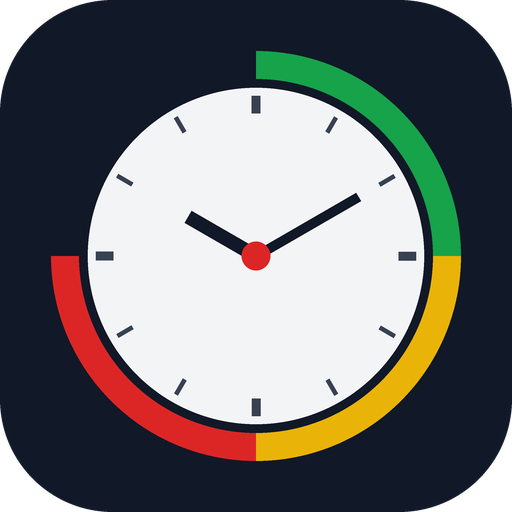
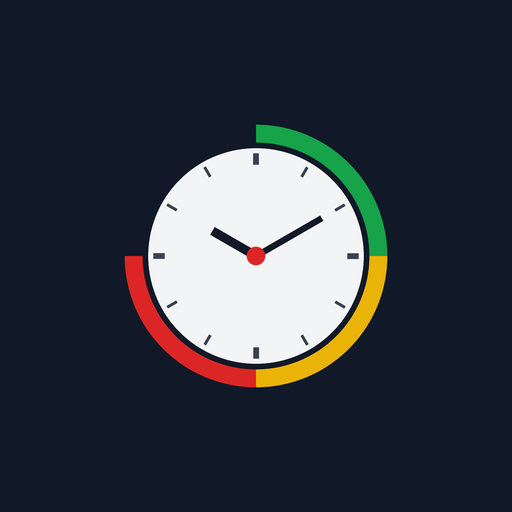
Kontrast je Phase, Stepper, Zoom frei, offline
- Kontrast in jeder Phase (FA-15, Befunde 1/2):
  - Gelb: weiße Zeit 1,92:1 → dunkle Schrift 9,25:1; dunkle Knöpfe (Text 14,3:1,
    Rand 9,25:1).
  - Grün: Farbe #16a34a → #15803d. Zeit und Legende 3,30 → 5,02:1. Knöpfe mit
    abgedunkelter Fläche und hellem Rand: „Pause“ 2,34 → 7,68:1, „Reset“ 2,72 →
    7,68:1, Zahnrad 2,72 → 7,68:1, Rand 3,81:1.
  - Rot: Zeit und Legende 4,83:1 (Legende ohne Abdunklung), Knöpfe 7,53:1,
    Rand 3,52:1.
  - Grundzustand: Rand 5,28:1.
  - Einstellungen bleiben hell auf dunkel, auch in der Gelbphase geöffnet.
- Zoom freigegeben: maximum-scale und user-scalable=no entfernt.
  touch-action: manipulation an Knöpfen und Zeitfläche, damit Doppeltipp nicht
  zoomt (Befund 3).
- Einstellungen: „Speichern“ 331×203 → 331×56 px (flex:1 blähte ihn auf, Befund 5).
- Je Minuten-/Sekundenfeld − und + (44×44 px), Grenzen 0–59 auch bei
  Tastatureingabe (75 → 59), Tastatur bleibt möglich (Befund 6).
- Service Worker nach Vorlage (sw.js, Cache "redezeit-timer::v1") (Q-2, Befund 4).
- mobile-web-app-capable im Kopf.
- icon-maskable-512.png deckend: Uhr auf 64 % auf #111827, Motiv unverändert,
  0 Pixel außerhalb der Schutzzone (Befund 8).
- README: Bedienung, Dateien, Installation, Offline; begründet die bewussten
  Abweichungen „nur dunkel“ und „orientation any“ (Befund 7).

Geprüft:
- 375×812: Grundzustand, Grün, Gelb, Rot (Zeiten 0:01/0:02/0:03 über Stepper und
  Felder gesetzt): Prüfskript ohne Befund, Werte siehe oben.
[…]

diff --git a/index.html b/index.html
@@ -2,8 +2,9 @@
 <html lang="de">
 <head>
 <meta charset="UTF-8">
-<meta name="viewport" content="width=device-width, initial-scale=1.0, maximum-scale=1.0, user-scalable=no, viewport-fit=cover">
+<meta name="viewport" content="width=device-width, initial-scale=1, viewport-fit=cover">
 <meta name="theme-color" content="#111827">
+<meta name="mobile-web-app-capable" content="yes">
 <meta name="apple-mobile-web-app-capable" content="yes">
 <meta name="apple-mobile-web-app-status-bar-style" content="black-translucent">
 <meta name="apple-mobile-web-app-title" content="Redezeit">
@@ -15,7 +16,7 @@
 <style>
   * { box-sizing: border-box; -webkit-tap-highlight-color: transparent; }
   :root {
-    --green: #16a34a;
+    --green: #15803d;   /* 02.10.2026: #16a34a gab weisser Schrift nur 3,30:1 */
     --yellow: #eab308;
     --red: #dc2626;
     --bg: #111827;
@@ -63,7 +64,6 @@
     gap: 14px;
     font-size: 15px;
     font-weight: 600;
-    opacity: .85;
   }
   #targets span { display: inline-flex; align-items: center; gap: 6px; }
   .dot { width: 12px; height: 12px; border-radius: 50%; box-shadow: 0 0 0 2px rgba(255,255,255,.4); }
@@ -83,7 +83,7 @@
     font-weight: 700;
     color: #fff;
     background: rgba(255,255,255,.16);
-    border: 1.5px solid rgba(255,255,255,.35);
+    border: 1.5px solid rgba(255,255,255,.5);
     border-radius: 16px;
     padding: 18px 0;
     flex: 1;
@@ -91,6 +91,7 @@
     cursor: pointer;
     backdrop-filter: blur(4px);
     transition: transform .05s ease, background .2s ease;
+    touch-action: manipulation;
   }
   button:active { transform: scale(.96); }
   #startBtn { background: rgba(255,255,255,.28); }
@@ -133,6 +134,29 @@
   #closeSettings {
     margin-top: auto; background: rgba(255,255,255,.28);
     border-color: rgba(255,255,255,.4); max-width: none;
+    flex: 0 0 auto; padding: 14px 0;   /* 02.10.2026: flex:1 blaehte den Knopf auf 203 px Hoehe auf */
+  }
+
+  /* ---- 02.10.2026: Kontrast in jeder Phase (FA-15) ----
+     Gruen/Rot: Knopfflaeche abgedunkelt, Rand hell -> weisse Schrift >= 4,5:1, Rand >= 3:1.
+     Gelb: weisse Schrift gab nur 1,92:1 -> dunkle Schrift, dunkle Knoepfe. */
+  #app.g button, #app.r button { background: rgba(0,0,0,.25); border-color: rgba(255,255,255,.8); }
+  #app.y { color: #111827; }
+  #app.y #clock { text-shadow: none; }
+  #app.y button { color: #fff; background: rgba(17,24,39,.88); border-color: #111827; }
+  #app.y .dot { box-shadow: 0 0 0 2px rgba(17,24,39,.5); }
+  #settings { color: #fff; }   /* Einstellungen bleiben hell auf dunkel, auch wenn sie in der Gelbphase geoeffnet werden */
+  #timerView { touch-action: manipulation; }   /* Tippen aufs Bild = Start/Pause, kein Doppeltipp-Zoom */
+
+  /* ---- 02.10.2026: Stepper je Minuten-/Sekundenfeld (MO-06) ---- */
+  .time-inputs { gap: 4px; }
+  .time-inputs input { width: 56px; -moz-appearance: textfield; }
+  .time-inputs input::-webkit-outer-spin-button,
+  .time-inputs input::-webkit-inner-spin-button { -webkit-appearance: none; margin: 0; }
+  .time-inputs .step {
+    flex: 0 0 44px; width: 44px; height: 44px; max-width: none; padding: 0;
+    font-size: 22px; line-height: 1; border-radius: 12px;
+    background: #1f2937; border-color: #4b5563;
   }
 </style>
 </head>
@@ -166,19 +190,19 @@
     <div class="field">
       <label><i class="dot g"></i> Gr&uuml;n ab</label>
       <div class="time-inputs">
-        <input id="gMin" type="number" min="0" max="59" inputmode="numeric"><span class="colon">:</span><input id="gSec" type="number" min="0" max="59" inputmode="numeric">
+        <button class="step" type="button" data-f="gMin" data-d="-1" aria-label="Grün Minuten weniger">&minus;</button><input id="gMin" type="number" min="0" max="59" inputmode="numeric"><button class="step" type="button" data-f="gMin" data-d="1" aria-label="Grün Minuten mehr">+</button><span class="colon">:</span><button class="step" type="button" data-f="gSec" data-d="-1" aria-label="Grün Sekunden weniger">&minus;</button><input id="gSec" type="number" min="0" max="59" inputmode="numeric"><button class="step" type="button" data-f="gSec" data-d="1" aria-label="Grün Sekunden mehr">+</button>
       </div>
     </div>
     <div class="field">
       <label><i class="dot y"></i> Gelb ab</label>
       <div class="time-inputs">
-        <input id="yMin" type="number" min="0" max="59" inputmode="numeric"><span class="colon">:</span><input id="ySec" type="number" min="0" max="59" inputmode="numeric">
+        <button class="step" type="button" data-f="yMin" data-d="-1" aria-label="Gelb Minuten weniger">&minus;</button><input id="yMin" type="number" min="0" max="59" inputmode="numeric"><button class="step" type="button" data-f="yMin" data-d="1" aria-label="Gelb Minuten mehr">+</button><span class="colon">:</span><button class="step" type="button" data-f="ySec" data-d="-1" aria-label="Gelb Sekunden weniger">&minus;</button><input id="ySec" type="number" min="0" max="59" inputmode="numeric"><button class="step" type="button" data-f="ySec" data-d="1" aria-label="Gelb Sekunden mehr">+</button>
       </div>
     </div>
     <div class="field">
       <label><i class="dot r"></i> Rot ab</label>
       <div class="time-inputs">
-        <input id="rMin" type="number" min="0" max="59" inputmode="numeric"><span class="colon">:</span><input id="rSec" type="number" min="0" max="59" inputmode="numeric">
+        <button class="step" type="button" data-f="rMin" data-d="-1" aria-label="Rot Minuten weniger">&minus;</button><input id="rMin" type="number" min="0" max="59" inputmode="numeric"><button class="step" type="button" data-f="rMin" data-d="1" aria-label="Rot Minuten mehr">+</button><span class="colon">:</span><button class="step" type="button" data-f="rSec" data-d="-1" aria-label="Rot Sekunden weniger">&minus;</button><input id="rSec" type="number" min="0" max="59" inputmode="numeric"><button class="step" type="button" data-f="rSec" data-d="1" aria-label="Rot Sekunden mehr">+</button>
       </div>
     </div>
     <p class="hint">Bei jedem Farbwechsel vibriert das Handy kurz. Tippen aufs Bild = Start/Pause.</p>
@@ -287,8 +311,8 @@
   }
   function saveInputs() {
     for (var k in el) {
-      var m = parseInt(el[k][0].value, 10) || 0;
-      var s = parseInt(el[k][1].value, 10) || 0;
+      var m = clamp59(el[k][0].value);
+      var s = clamp59(el[k][1].value);
       targets[k] = m * 60 + s;
     }
     try { localStorage.setItem('redetimer', JSON.stringify(targets)); } catch(e){}
@@ -311,6 +335,19 @@
     saveInputs();
     settings.classList.remove('open');
   });
+
+  // Stepper: je Feld - und +, Grenzen 0-59; die Tastatureingabe bleibt moeglich
+  function clamp59(v) { v = parseInt(v, 10); return isNaN(v) ? 0 : Math.min(59, Math.max(0, v)); }
+  var stepBtns = document.querySelectorAll('.time-inputs .step');
+  for (var j = 0; j < stepBtns.length; j++) {
+    stepBtns[j].addEventListener('click', function () {
+      var f = document.getElementById(this.getAttribute('data-f'));
+      f.value = clamp59((parseInt(f.value, 10) || 0) + parseInt(this.getAttribute('data-d'), 10));
+    });
+  }
+  for (var k2 in el) {
+    el[k2].forEach(function (f) { f.addEventListener('change', function () { f.value = clamp59(f.value); }); });
+  }
 
   var presetBtns = document.querySelectorAll('.presetRow button');
   for (var i = 0; i < presetBtns.length; i++) {
@@ -336,6 +373,12 @@
   updateTargetLabels();
   render();
 })();
+</script>
+<script>
+/* Service Worker (02.10.2026, Q-2): Timer laeuft offline, loescht nur eigene Caches (sw.js). */
+if ("serviceWorker" in navigator && window.top === window) {
+  window.addEventListener("load", () => navigator.serviceWorker.register("./sw.js").catch(() => {}));
+}
 </script>
 </body>
 </html>

diff --git a/sw.js b/sw.js
@@ -1,0 +1,55 @@
+/* Redezeit-Timer – Service Worker
+   Strategie: network first, Cache als Fallback. Updates landen sofort,
+   ohne Netz läuft die App aus dem Cache.
+
+   WICHTIG: Alle Mini-Apps liegen auf derselben Herkunft
+   (mvonulmerbach-ship-it.github.io) und teilen sich EINEN Cache-Speicher.
+   Darum nur Caches mit dem eigenen PRAEFIX löschen – niemals fremde.
+   "::" als Trenner, damit "kaffee::" nicht auch "kaffee-nachschlagewerk::v1" trifft. */
+
+const PRAEFIX = "redezeit-timer::";
+const CACHE = PRAEFIX + "v1";          // bei jeder Änderung an der App hochzählen
+const ALT_PRAEFIXE = [];               // frühere Cache-Namen dieser App
+const KERN = [
+  "./",
+  "./index.html",
+  "./manifest.webmanifest",
+  "./icon-192.png",
+  "./icon-512.png",
+  "./icon-maskable-512.png",
+  "./apple-touch-icon.png"
+];
+
+self.addEventListener("install", e => {
+  e.waitUntil(caches.open(CACHE).then(c => c.addAll(KERN)).then(() => self.skipWaiting()));
+});
+
+self.addEventListener("activate", e => {
+  e.waitUntil(
+    caches.keys()
+      .then(namen => Promise.all(namen
+        .filter(n => (n.startsWith(PRAEFIX) && n !== CACHE) || ALT_PRAEFIXE.some(a => n.startsWith(a)))
+        .map(n => caches.delete(n))))
+      .then(() => self.clients.claim())
+  );
+});
+
+self.addEventListener("fetch", e => {
+  const req = e.request;
+  if (req.method !== "GET") return;
+  if (!req.url.startsWith(self.registration.scope)) return;   // nur eigene Dateien
+  e.respondWith(
+    fetch(req)
+      .then(res => {
+        if (res.ok && res.type === "basic") {
+          const kopie = res.clone();
+          caches.open(CACHE).then(c => c.put(req, kopie)).catch(() => {});
+        }
+        return res;
+      })
+      .catch(() => caches.open(CACHE)
+        .then(c => c.match(req, { ignoreSearch: true })
+          .then(treffer => treffer || (req.mode === "navigate" ? c.match("./index.html") : undefined)))
+        .then(antwort => antwort || Response.error()))
+  );
+});

diff --git a/README.md b/README.md
@@ -1,5 +1,35 @@
-# redezeit-timer
+# Redezeit-Timer
 
-Mobiler Redezeit-Timer im Toastmasters-Stil (gruen/gelb/rot). Zeiten frei einstellbar.
+Mobiler Redezeit-Timer im Toastmasters-Stil: Der ganze Bildschirm wird grün, gelb und rot, wenn die eingestellten Zeiten erreicht sind.
 
-Live: https://mvonulmerbach-ship-it.github.io/redezeit-timer/
+**Live:** https://mvonulmerbach-ship-it.github.io/redezeit-timer/
+
+## Bedienung
+
+- **Start / Pause / Weiter** und **Reset** unten; Tippen aufs Bild startet oder pausiert ebenfalls.
+- Zahnrad ⚙ oben rechts: Zeiten für Grün, Gelb und Rot (Minuten : Sekunden, je 0–59) mit − und + oder per Tastatur einstellen. Vorlagen: Stegreif 1–2 Min, Kurzrede 4–6 Min, Rede 5–7 Min, Rede 7–9 Min. Standard ist 5–7 Min.
+- Bei jedem Farbwechsel vibriert das Handy kurz. Der Bildschirm bleibt an, solange der Timer läuft (Wake Lock).
+- Die Zeit wird aus der Uhrzeit berechnet (`Date.now()`), sie driftet also nicht. Die eingestellten Zeiten werden im Browser gespeichert (`localStorage`, Schlüssel `redetimer`).
+
+## Bewusste Abweichungen vom Mini-App-Muster
+
+- **Nur dunkel, kein Hell/Dunkel-Schalter:** Der Timer läuft vor Publikum oder auf dem Pult. Ein dunkler Grund blendet nicht, und die Phasenfarben Grün, Gelb und Rot füllen ohnehin den ganzen Bildschirm.
+- **`orientation: any`:** Der Timer soll auch quer auf dem Tisch oder am Tablet stehen können.
+
+Die Schrift- und Knopffarben sind je Phase so gewählt, dass sie lesbar bleiben: Grün und Rot mit weißer Schrift, Gelb mit dunkler Schrift und dunklen Knöpfen.
+
+## Dateien
+
+| Datei | Zweck |
+|---|---|
+| `index.html` | die ganze App (HTML, CSS, JavaScript) |
+| `manifest.webmanifest`, `icon-192.png`, `icon-512.png`, `icon-maskable-512.png`, `apple-touch-icon.png` | Installation als App |
+| `sw.js` | Service Worker für den Offline-Betrieb |
+
+## Auf dem Handy installieren
+
+Seite in Chrome öffnen → Menü ⋮ → „Zum Startbildschirm hinzufügen“ (Safari: Teilen → „Zum Home-Bildschirm“).
+
+## Offline
+
+Nach dem ersten Öffnen läuft der Timer ohne Netz (Service Worker, network first mit Cache als Rückfall) – auch in Sitzungsräumen ohne Empfang.
